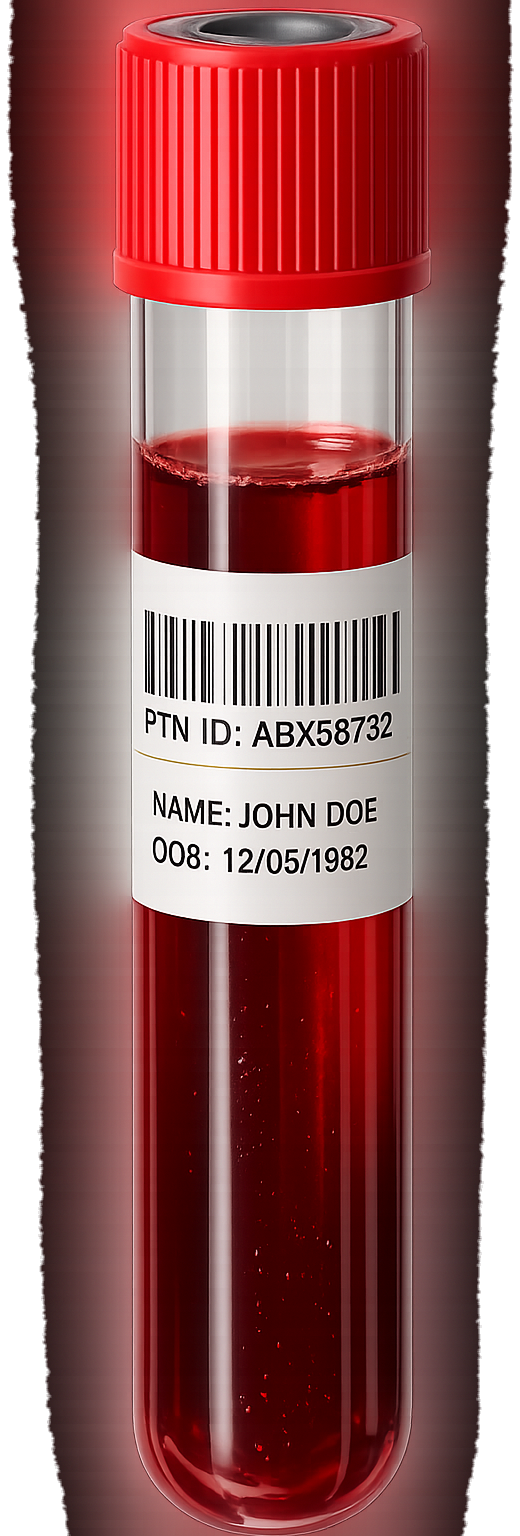
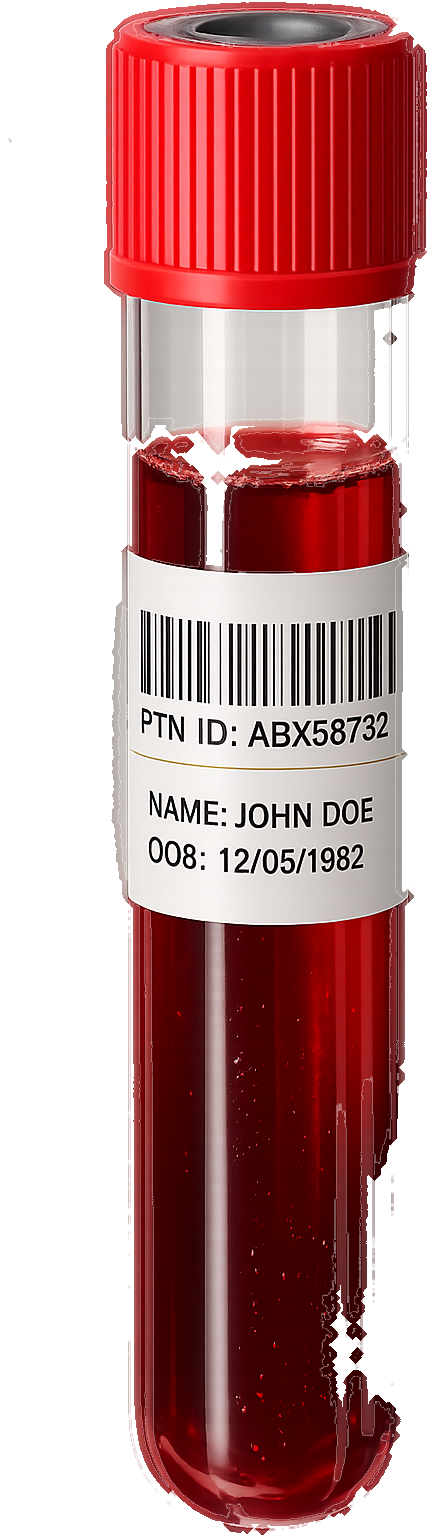
fix(auth): login — vial cylinder keeps neck AND drops the glow smear
Regenerate the cylinder texture: clean (glow-free) cut, then morphologically seal
the thin glass-wall gaps and fill only the interior (neck + walls) back to
opaque. Removes the rotating reddish glow smear while keeping the tube fully
solid. Update strip aspect to the tight 435px image.

diff --git a/apps/web/src/app/login/page.tsx b/apps/web/src/app/login/page.tsx
@@ -35,7 +35,7 @@ const TRUST = [
 function SpinningVial() {
   const N = 48;                          // strip count around the cylinder
   const H = 600;                         // on-screen tube height (px)
-  const Wtex = Math.round(0.3385 * H);   // un-stretched image width (aspect 520:1536)
+  const Wtex = Math.round(0.2832 * H);   // un-stretched image width (aspect 435:1536)
   const R = Wtex / Math.PI;              // radius: image spans the front 180deg arc
   const sw = (2 * Math.PI * R) / N;      // display width per strip
   // Texture u wraps front (0->1) then mirrors on the back (1->0) so the seams
